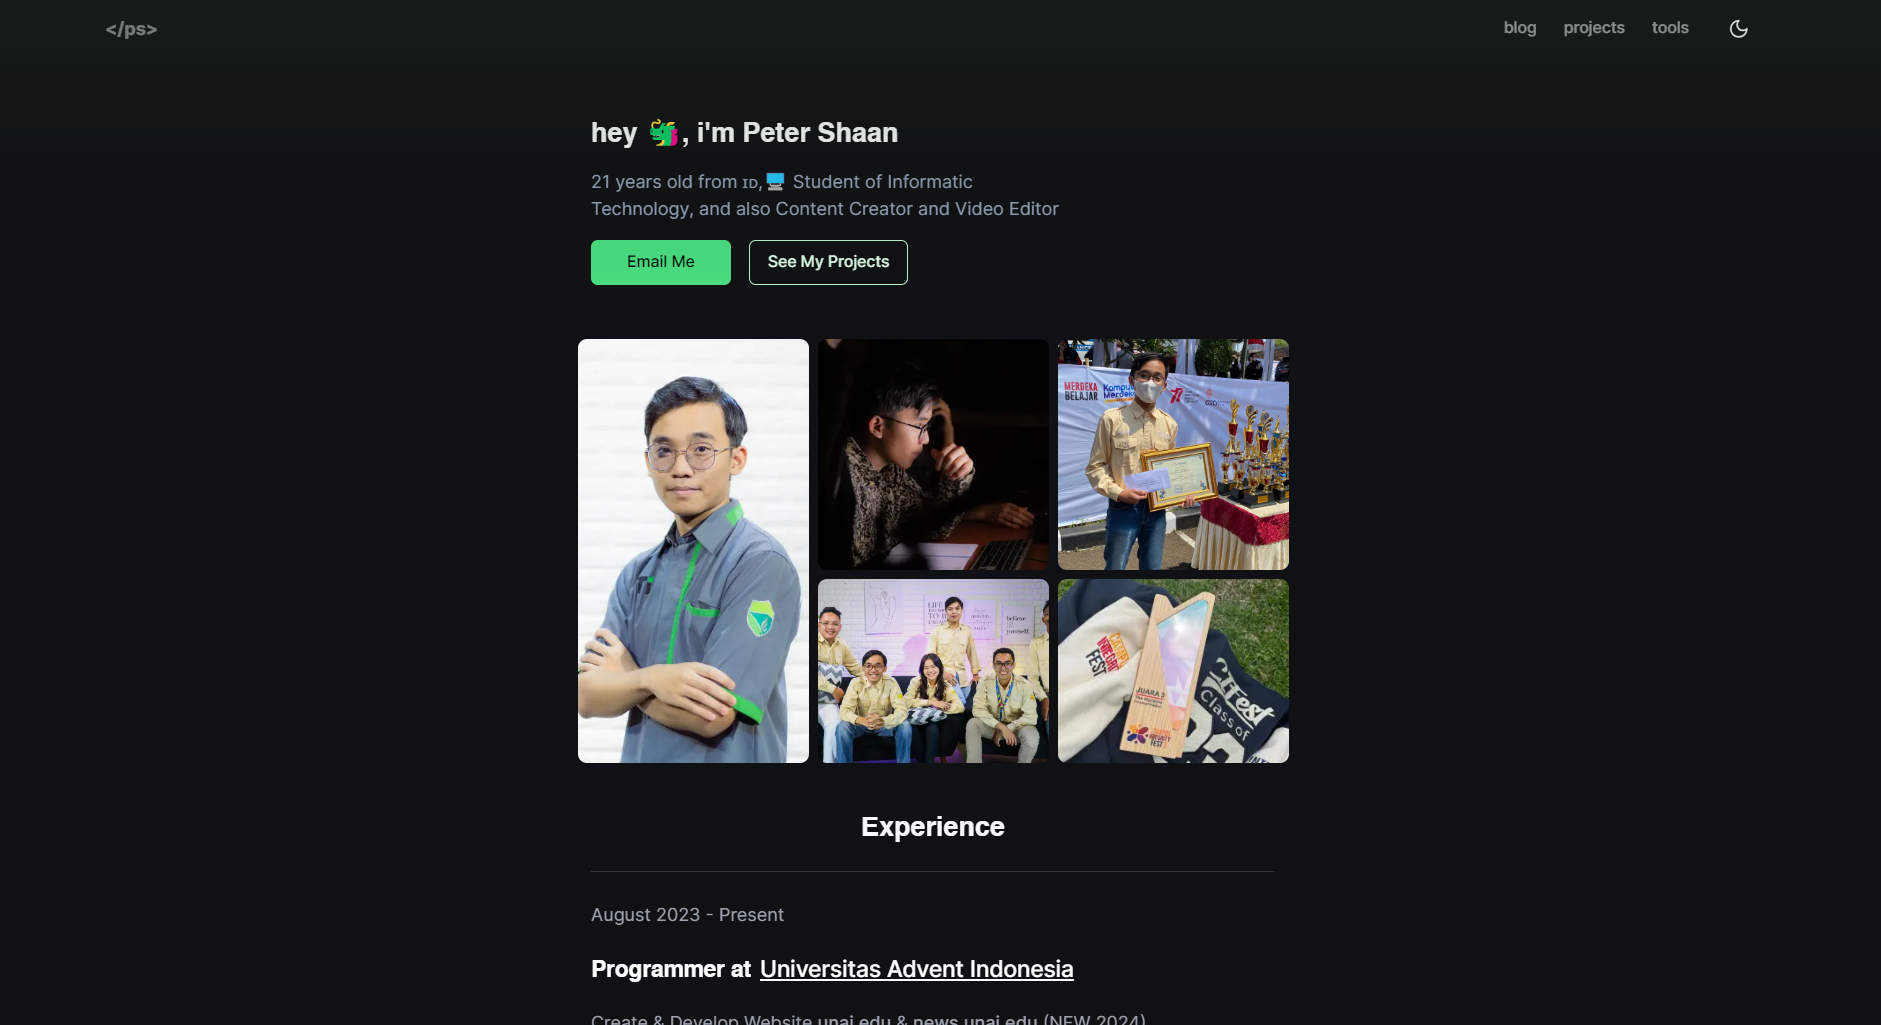
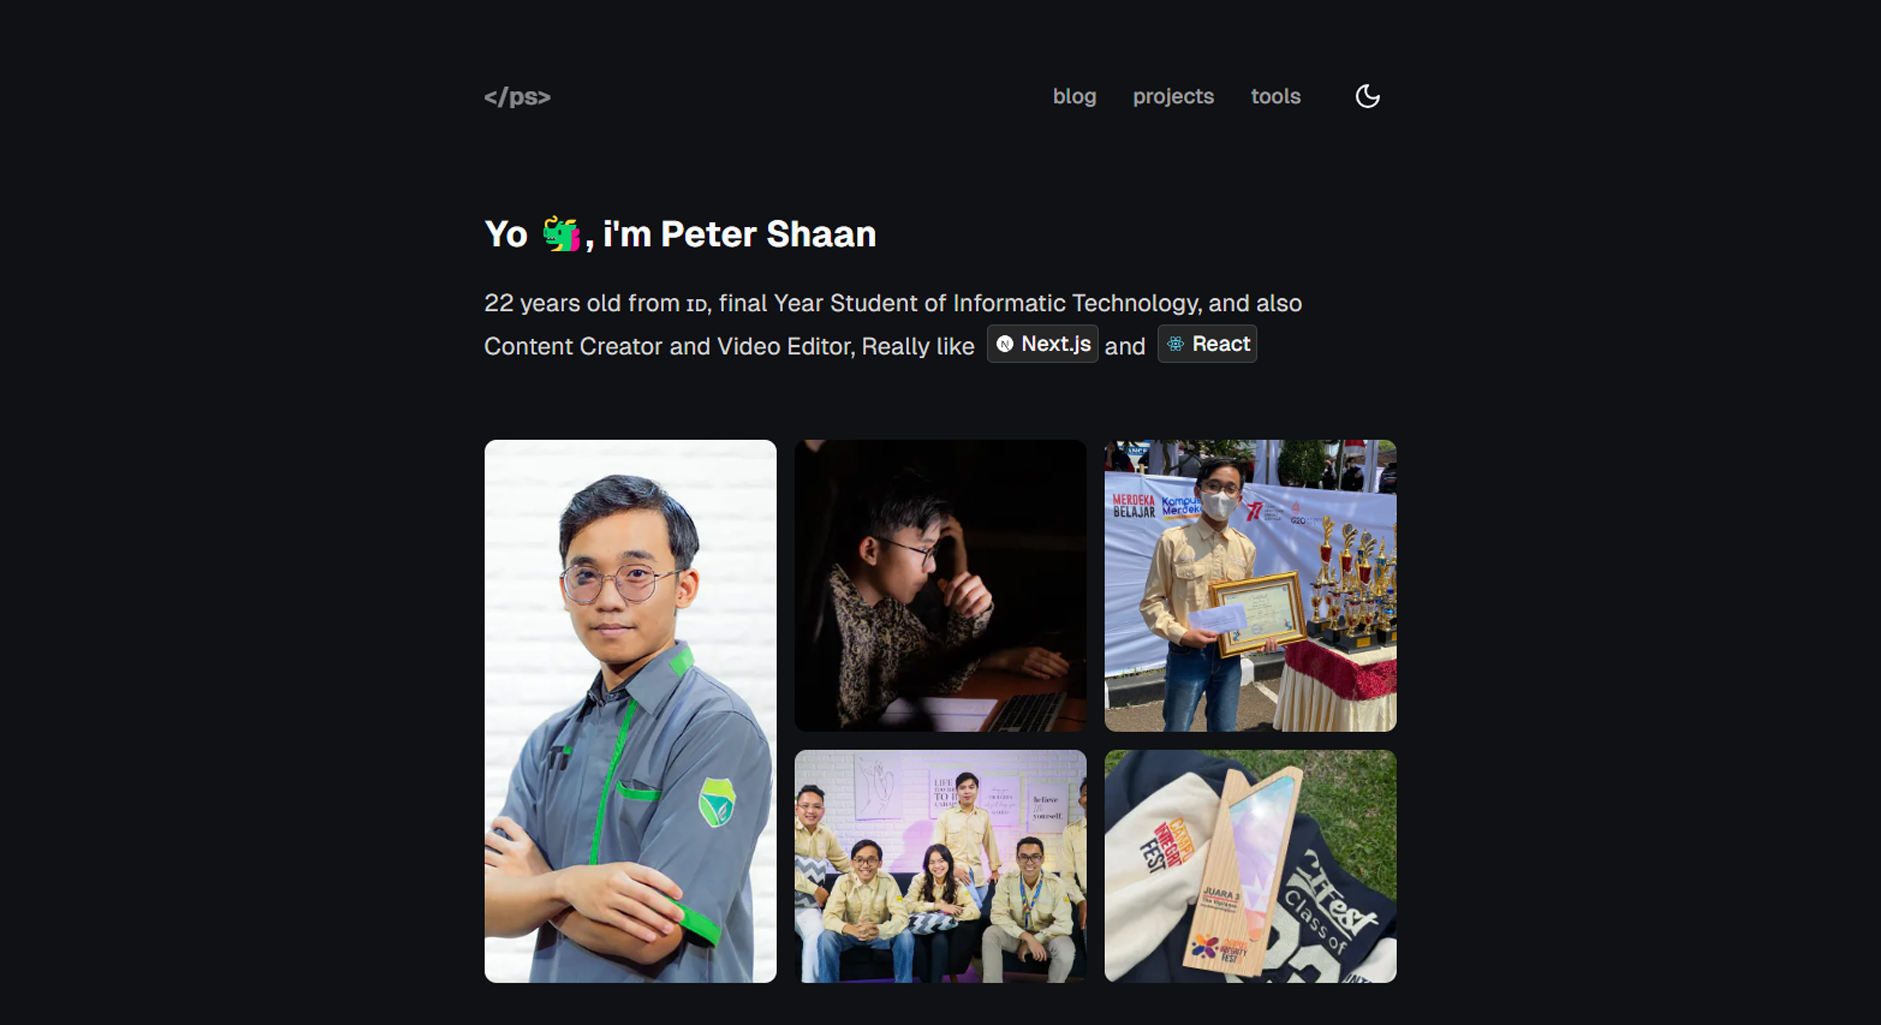
perbaikin home page dan og

diff --git a/app/page.tsx b/app/page.tsx
@@ -30,8 +30,23 @@ export default async function Home() {
             Yo 🐲, i&apos;m Peter Shaan
           </h1>
           <p className="mx-auto prose prose-neutral dark:prose-invert ">
-            22 years old from 🇮🇩, final Year Student of Informatic Technology,
-            and also Content Creator and Video Editor, Really like
+            22 years old from 🇮🇩, final Year Student of Informatic Technology, a
+            Fullstack developer and also
+            <a
+              href="https://youtube.com/petershaan_"
+              target="_blank"
+              className="ml-1 inline-flex items-center rounded border border-neutral-200 bg-neutral-50 p-1 text-sm leading-4 text-neutral-900 no-underline dark:border-neutral-700 dark:bg-neutral-800 dark:text-neutral-100"
+            >
+              <img
+                src="/icon/yt.png"
+                className="inline-flex m-0 mr-1"
+                alt="image kecil"
+                width={14}
+                height={14}
+              />
+              Content Creator
+            </a>{" "}
+            and Video Editor, Lovely using
             <a
               href="https://nextjs.org"
               target="_blank"
@@ -111,6 +126,20 @@ export default async function Home() {
             height={500}
           />
         </div>
+      </section>
+      <section className="container mt-5">
+        <p className="mx-auto prose prose-neutral dark:prose-invert ">
+          Back in high school, I joined some online course that got me obsessed
+          with programming. Huge thanks to Kak Justify for kickstarting my
+          journey. That&apos;s when I began my path to becoming a programmer. I
+          started out as a local editor, which made me fall in love with design
+          and coding. Now, I&apos;m all about both.
+        </p>
+        <p className="mx-auto prose prose-neutral dark:prose-invert mt-5">
+          I&apos;m truly believe that sharing programming knowledge can help a
+          lot of people out there become creators, not just users or consumers
+          of apps.
+        </p>
       </section>
       <section className="container max-w-4xl py-6 lg:py-10 flex flex-col">
         <h2 className="text-2xl font-semibold text-center ">Experience</h2>

diff --git a/app/api/og/route.tsx b/app/api/og/route.tsx
@@ -14,7 +14,6 @@ export async function GET(req: NextRequest) {
 
     const { searchParams } = req.nextUrl;
     const title = searchParams.get("title");
-    const logo = "</ps>";
 
     if (!title) {
       return new Response("No title provider", { status: 500 });
@@ -26,18 +25,17 @@ export async function GET(req: NextRequest) {
     return new ImageResponse(
       (
         <div
-          tw="flex relative flex-col p-36 w-full h-full items-start text-white "
+          tw="flex relative flex-col p-44 w-full h-full items-start text-white "
           style={{
-            backgroundImage: `url(${process.env.NEXT_PUBLIC_APP_URL}/background_ogi.jpg)`,
+            backgroundImage: `url(http://localhost:3000/background.png)`,
             backgroundSize: "cover",
             backgroundPosition: "center",
           }}
         >
-          <div tw="flex items-center">
-            <p tw="ml-2 font-bold text-4xl">{logo}</p>
-          </div>
-          <div tw="flex flex-col flex-1 py-10">
-            <div tw="flex text-[100px] font-bold">{heading}</div>
+          <div tw="flex flex-col flex-1 py-12 mt-28">
+            <div tw="flex text-[120px] font-bold leading-[120px] tracking-tighter">
+              {heading}
+            </div>
           </div>
           <div tw="flex items-center w-full justify-between ">
             <div tw="flex text-3xl">{siteConfig.url}</div>

diff --git a/components/site-footer.tsx b/components/site-footer.tsx
@@ -5,7 +5,7 @@ import { Icons } from "./icons";
 export function SiteFooter() {
   return (
     <footer>
-      <div className="mb-6 flex flex-col items-center">
+      <div className="my-12 flex flex-col items-center">
         <div className="py-7 flex  gap-10  text-xl text-gray-400 dark:text-white dark:opacity-50">
           <a target="_blank" rel="noreferrer" href={siteConfig.links.youtube}>
             <span className="sr-only">Youtube</span>
@@ -26,7 +26,7 @@ export function SiteFooter() {
           </a>
         </div>
         <div className="gradient-text text-xs -mt-2 mb-5 text-gray-500 dark:text-white opacity-50">
-          ©2024 Peter Shaan, All Rights Reserved ↗
+          ©2024 Peter Shaan, All Rights Reserved
         </div>
       </div>
     </footer>

diff --git a/app/projects/page.tsx b/app/projects/page.tsx
@@ -10,10 +10,7 @@ export default async function ProjectPage() {
   return (
     <div className="container max-w-6xl py-6 lg:py-10">
       <div className="flex flex-col">
-        <h1 className="text-2xl font-semibold">My Projects</h1>
-        <p className="prose prose-neutral dark:prose-invert ">
-          berikut adalah experience aku dibidang Pekerjaan & Projek
-        </p>
+        <h1 className="text-2xl font-semibold">my projects</h1>
       </div>
       <hr className="my-5" />
       <div className="grid grid-cols-1 sm:grid-cols-2 md:grid-cols-2 gap-6  mt-8">

diff --git a/components/tag.tsx b/components/tag.tsx
@@ -12,7 +12,8 @@ export function Tag({ tag, current, count }: TagProps) {
     <Link
       className={badgeVariants({
         variant: current ? "default" : "secondary",
-        className: "no-underline rounded-md text-xs font-light opacity-70",
+        className:
+          "rounded-full bg-green-200 px-3 py-1 text-xs text-green-800 font-semibold hover:text-white hover:bg-green-600 dark:hover:text-white dark:hover:bg-green-600  dark:bg-green-950 dark:text-green-400",
       })}
       href={`/tags/${slug(tag)}`}
     >

diff --git a/app/tools/page.tsx b/app/tools/page.tsx
@@ -13,9 +13,6 @@ export default async function ProjectPage() {
     <div className="container max-w-6xl py-6 lg:py-10">
       <div className="flex flex-col">
         <h1 className="text-2xl font-semibold">Tools</h1>
-        <p className="prose prose-neutral dark:prose-invert ">
-          mulai dari hal development, design, maupun produktivitas
-        </p>
       </div>
       <hr className="my-5" />
       <div className="grid grid-cols-2 gap-2">
